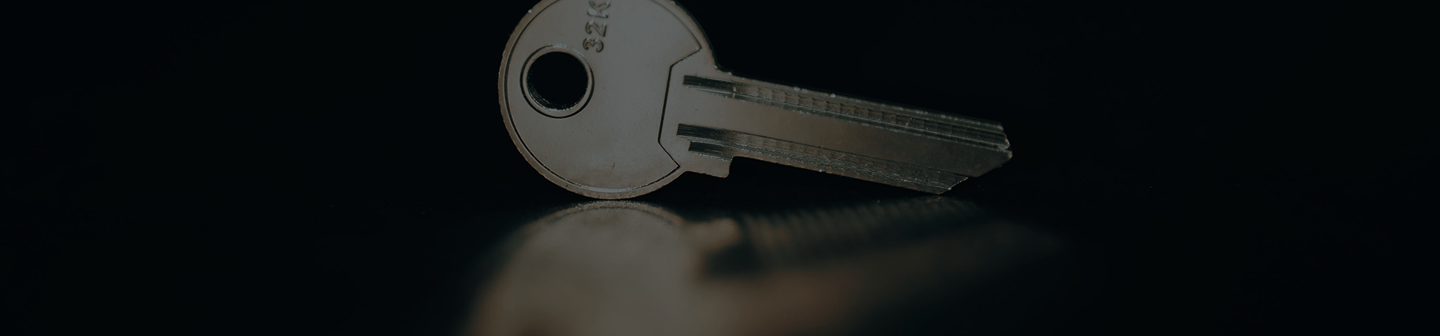
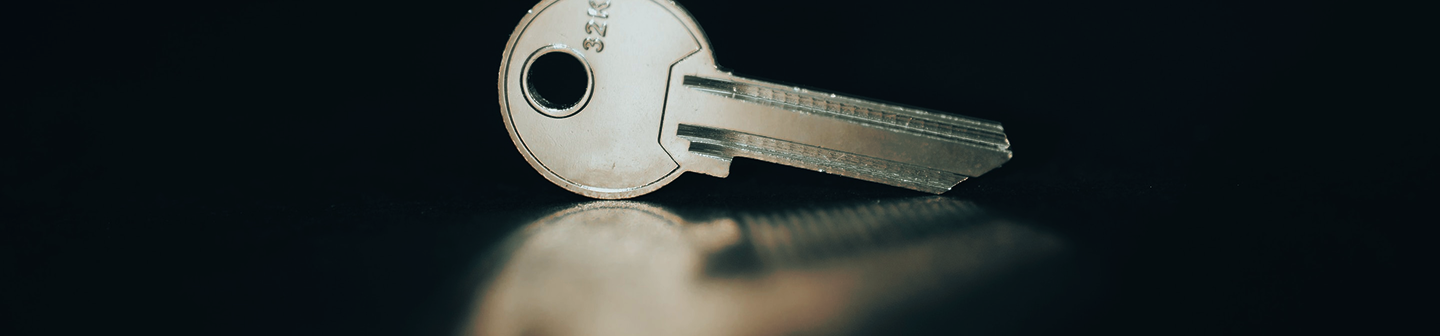
Coding Restaurant Attribute Section From Dealer Agreement Page

Changed region(s): [[0.3125, 0.0, 0.7188, 1.0]]

diff --git a/index.html b/index.html
@@ -459,7 +459,15 @@
       <symbol id="exit" xmlns="http://www.w3.org/2000/svg" fill="none" viewBox="0 0 24 24" stroke-width="1.5" stroke="currentColor">
         <path stroke-linecap="round" stroke-linejoin="round" d="M15.75 9V5.25A2.25 2.25 0 0 0 13.5 3h-6a2.25 2.25 0 0 0-2.25 2.25v13.5A2.25 2.25 0 0 0 7.5 21h6a2.25 2.25 0 0 0 2.25-2.25V15m3 0 3-3m0 0-3-3m3 3H9" />
       </symbol>
-      
+      <symbol id="bank" xmlns="http://www.w3.org/2000/svg" fill="none" viewBox="0 0 24 24" stroke-width="1.5" stroke="currentColor">
+        <path stroke-linecap="round" stroke-linejoin="round" d="M12 21v-8.25M15.75 21v-8.25M8.25 21v-8.25M3 9l9-6 9 6m-1.5 12V10.332A48.36 48.36 0 0 0 12 9.75c-2.551 0-5.056.2-7.5.582V21M3 21h18M12 6.75h.008v.008H12V6.75Z" />
+      </symbol>
+      <symbol id="card" xmlns="http://www.w3.org/2000/svg" fill="none" viewBox="0 0 24 24" stroke-width="1.5" stroke="currentColor">
+        <path stroke-linecap="round" stroke-linejoin="round" d="M2.25 8.25h19.5M2.25 9h19.5m-16.5 5.25h6m-6 2.25h3m-3.75 3h15a2.25 2.25 0 0 0 2.25-2.25V6.75A2.25 2.25 0 0 0 19.5 4.5h-15a2.25 2.25 0 0 0-2.25 2.25v10.5A2.25 2.25 0 0 0 4.5 19.5Z" />
+      </symbol>      
+      <symbol id="book" xmlns="http://www.w3.org/2000/svg" fill="none" viewBox="0 0 24 24" stroke-width="1.5" stroke="currentColor">
+        <path stroke-linecap="round" stroke-linejoin="round" d="M12 6.042A8.967 8.967 0 0 0 6 3.75c-1.052 0-2.062.18-3 .512v14.25A8.987 8.987 0 0 1 6 18c2.305 0 4.408.867 6 2.292m0-14.25a8.966 8.966 0 0 1 6-2.292c1.052 0 2.062.18 3 .512v14.25A8.987 8.987 0 0 0 18 18a8.967 8.967 0 0 0-6 2.292m0-14.25v14.25" />
+      </symbol>      
     </svg>
     <!-- App -->
     <div id="app"></div>

diff --git a/src/constants/routes.js b/src/constants/routes.js
@@ -89,6 +89,14 @@ export default [
     ]
   },
   {
+    path: "/dealer-agreement",
+    name: "DealerAgreement",
+    component: () => import("@/pages/dealer-agreement/DealerAgreementPage.vue"),
+    meta: {
+      title: "ترخینه 🥦 | اعطای نمایندگی",
+    }
+  },
+  {
     path: "/successfull-pay",
     name: "SuccessfullPayPage",
     component: () => import("@/pages/successfull-pay/SuccessfullPayPage.vue"),

diff --git a/src/style.css b/src/style.css
@@ -139,6 +139,10 @@
     background-image: var(--bg-gradient), url(./assets/images/hero-section/Hero-Contact-Us.png);
   }
   
+  .hero__background--dealer-agreement { 
+    background-image: var(--bg-gradient), url(./assets/images/hero-section/Hero-Dealer-Agreement.png);
+  }
+
   .footer__background {
     background-image: var(--bg-gradient), url(./assets/images/backgrounds/Footer.png);
   }

diff --git a/src/pages/home/components/RestaurantAttributeBox.vue b/src/pages/home/components/RestaurantAttributeBox.vue
@@ -16,9 +16,11 @@ defineProps({
   <div
     class="md:w-46 md:h-34 w-34 h-12.5 flex flex-col items-center justify-center md:gap-y-4 gap-y-1 text-white"
   >
+    <!-- Icon -->
     <svg class="size-6 md:size-12">
       <use :href="'#' + iconName"></use>
     </svg>
+    <!-- Content -->
     <span class="text-xs font-Dana md:text-lg">{{ attribute }}</span>
   </div>
 </template>
